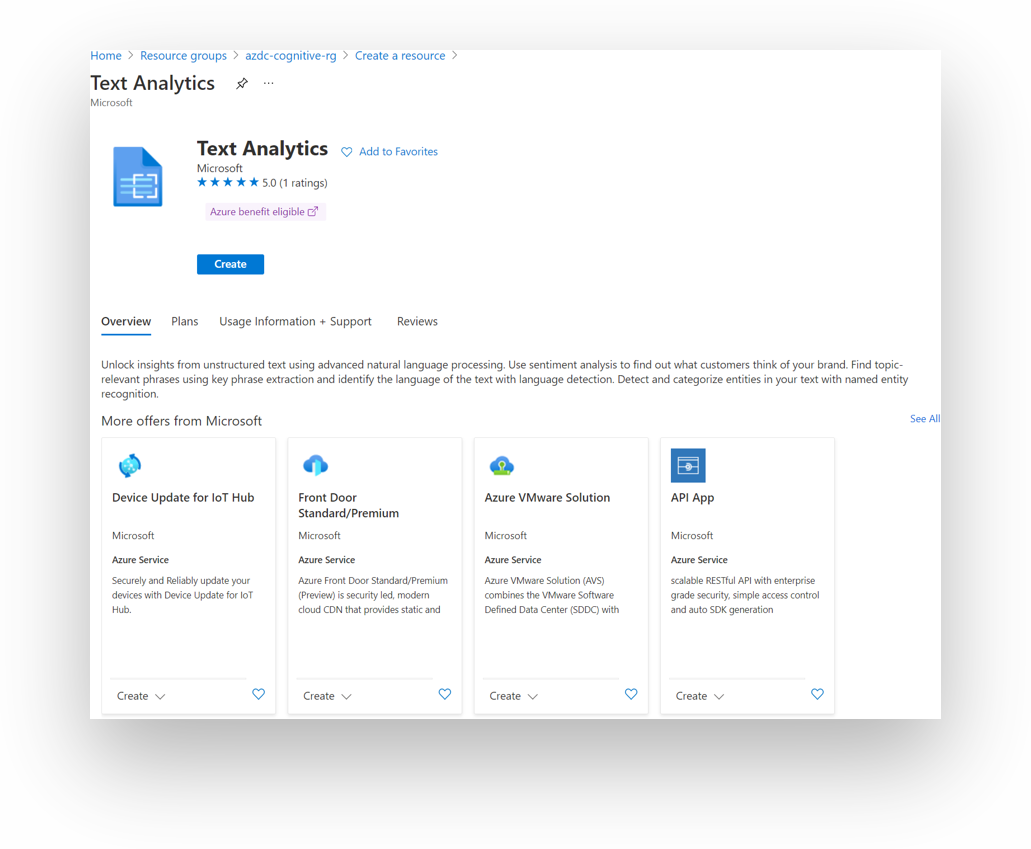
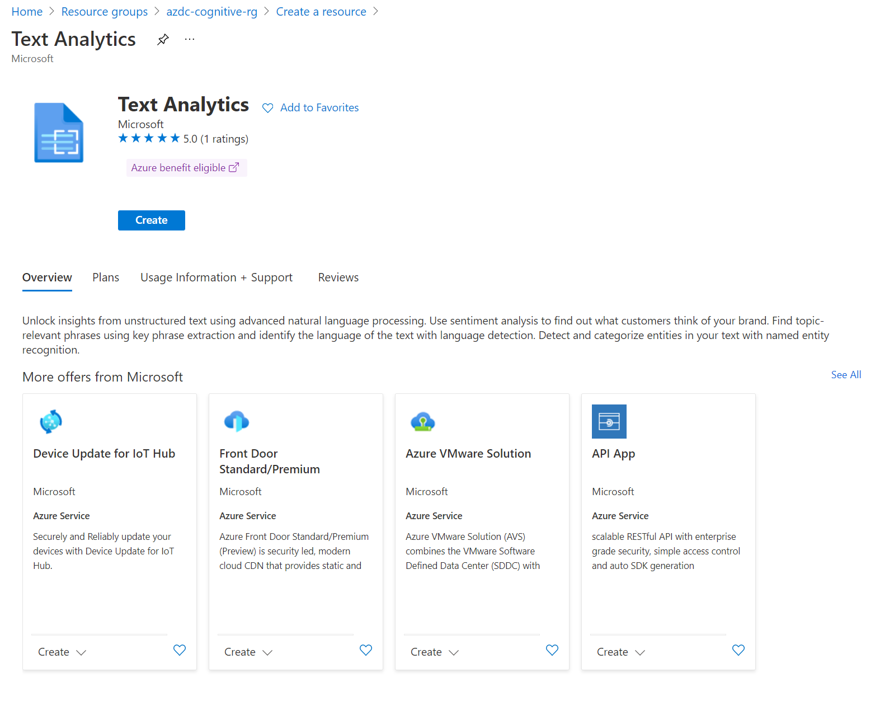
updated images without shadow and add links, fix typo

Changed region(s): [[0.0, 0.0, 0.9664, 0.9167]]

diff --git a/day3/challenges/challenge-4.md b/day3/challenges/challenge-4.md
@@ -500,13 +500,14 @@ _Add some links to Azure samples that might be of interest, e.g.:_
 Azure AppService code samples:
 
 - https://github.com/Azure-Samples/cognitive-services-quickstart-code
+- For more Details on Cognitive Services or Azure Machine Learning Services visit the **AI Developer College:** https://github.com/aidevcollege/aidevcollege
 
 ## Cleanup
 
 Remove the sample resource group.
 
 ```shell
-az group delete -n adc-cognitive-rg
+az group delete -n azdc-cognitive-rg
 ```
 
 [◀ Previous challenge](./04-challenge-bo-1.md) | [🔼 Day 3](../README.md) | [Next challenge ▶](./06-challenge-bo-2.md)
